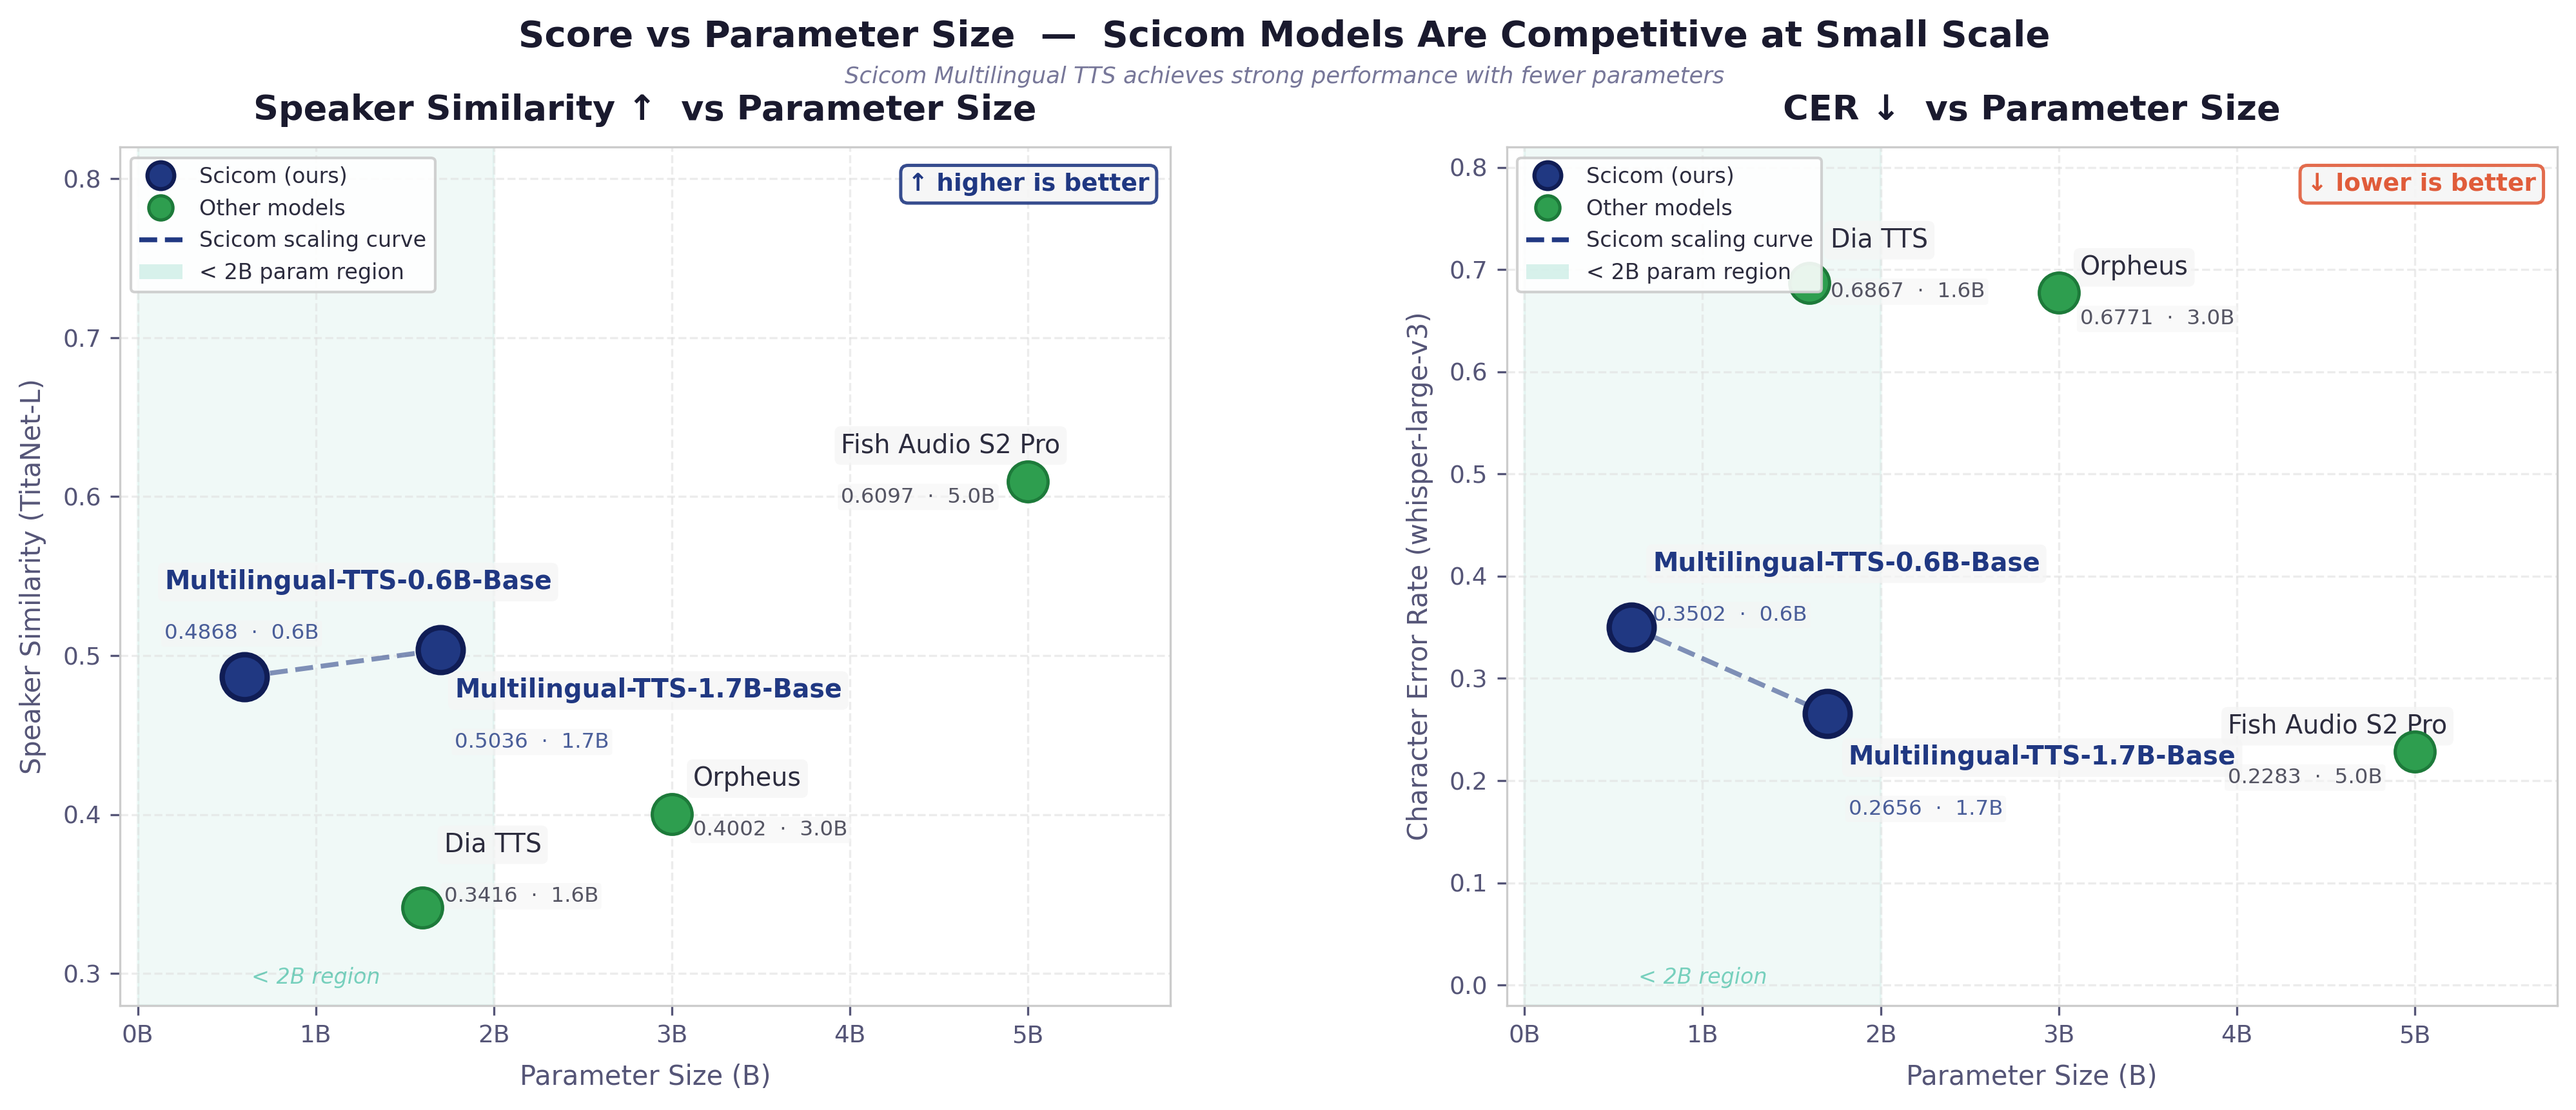
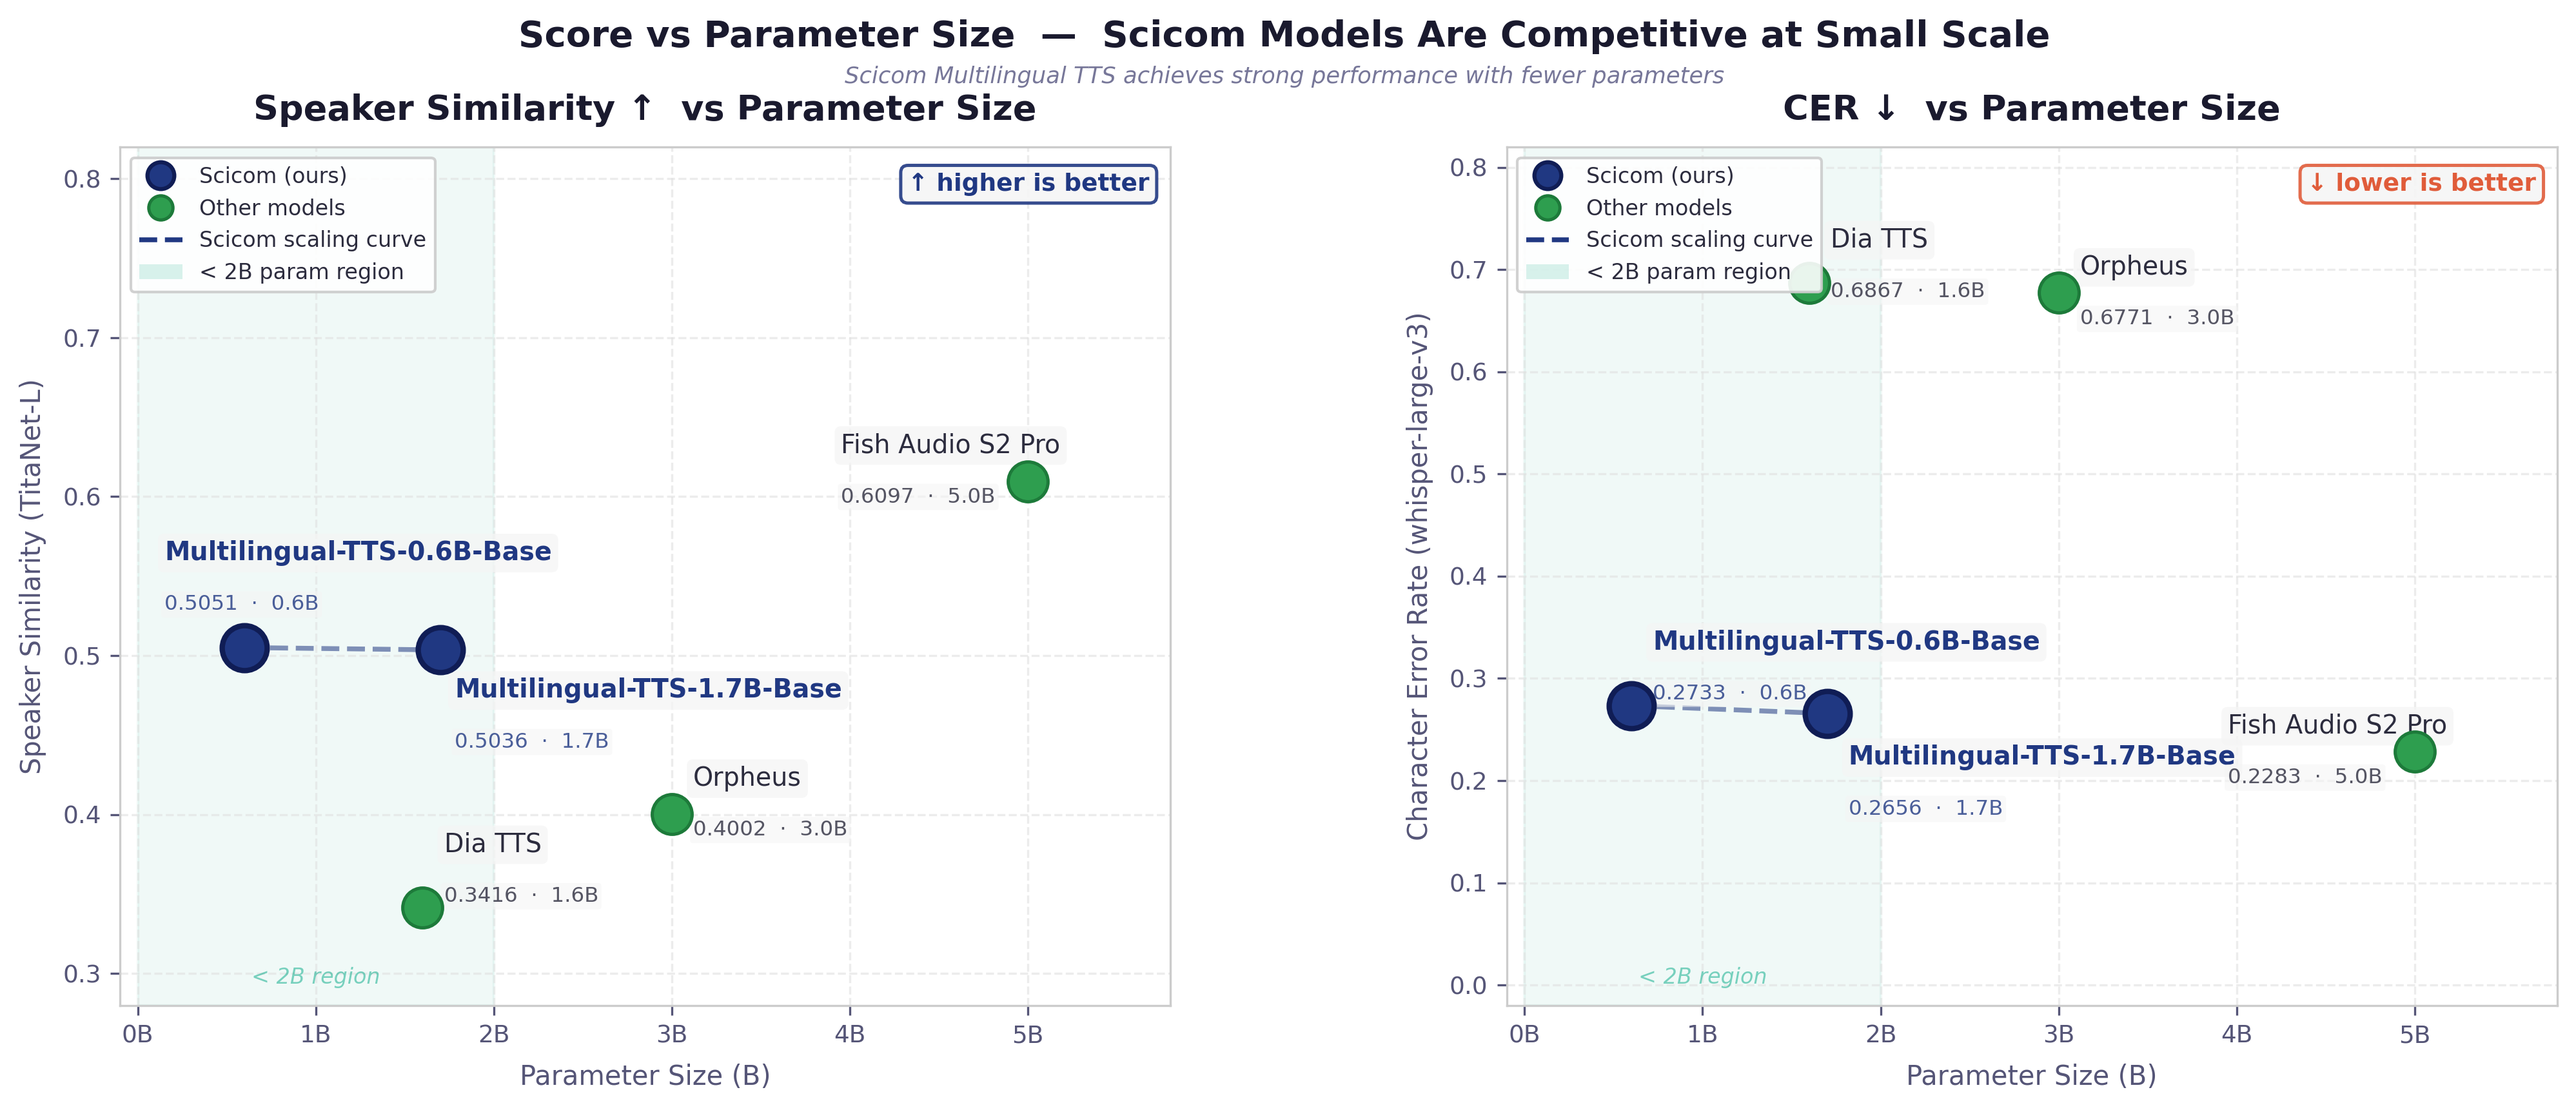
update benchmarks

Changed region(s): [[0.6208, 0.4925, 0.807, 0.6771], [0.0621, 0.4925, 0.2173, 0.6463]]

diff --git a/vc-evaluation/plot_results.py b/vc-evaluation/plot_results.py
@@ -72,23 +72,23 @@ SIM_DATA = [
     },
     # ── Multilingual-TTS-0.6B-Base ────────────────────────────────────────────────
     {
-        'af':0.5121,'am':0.5132,'ar':0.4300,'as':0.5331,'az':0.5316,
-        'ba':0.4551,'be':0.5979,'bg':0.6095,'bn':0.5832,'br':0.3314,
-        'ca':0.5070,'cs':0.4890,'cy':0.4149,'da':0.4135,'de':0.5412,
-        'el':0.4422,'en':0.5087,'es':0.5552,'et':0.5698,'eu':0.5635,
-        'fa':0.4468,'fi':0.4590,'fr':0.5369,'gl':0.5093,'ha':0.4805,
-        'he':0.4929,'hi':0.4921,'ht':0.3976,'hu':0.5103,'hy-AM':0.5831,
-        'id':0.4808,'is':0.5248,'it':0.5697,'ja':0.4444,'ka':0.5860,
-        'kk':0.4935,'ko':0.5508,'lo':0.4723,'lt':0.5480,'lv':0.4431,
-        'mk':0.5880,'ml':0.4207,'mn':0.5209,'mr':0.5802,'mt':0.4761,
-        'ne-NP':0.4764,'nl':0.5041,'nn-NO':0.4268,'oc':0.4497,'pa-IN':0.5042,
-        'pl':0.4855,'ps':0.4846,'pt':0.4039,'ro':0.5348,'ru':0.5169,
-        'sd':0.4272,'sk':0.4075,'sl':0.4358,'sq':0.4804,'sr':0.3240,
-        'sv-SE':0.3691,'sw':0.5102,'ta':0.5260,'te':0.4663,'tg':0.5160,
-        'th':0.4613,'tk':0.4945,'tr':0.3735,'tt':0.4430,'uk':0.4826,
-        'ur':0.5032,'uz':0.5294,'vi':0.3593,'yi':0.4014,'yo':0.5081,
-        'zh-CN':0.5086,'zh-HK':0.5203,'zh-TW':0.4256,
-        '__avg__': 0.4868,
+        'af':0.5265,'am':0.5520,'ar':0.4446,'as':0.5472,'az':0.5504,
+        'ba':0.4625,'be':0.6071,'bg':0.6121,'bn':0.5861,'br':0.3499,
+        'ca':0.5308,'cs':0.4957,'cy':0.4499,'da':0.4414,'de':0.5406,
+        'el':0.4627,'en':0.5196,'es':0.5808,'et':0.5889,'eu':0.5749,
+        'fa':0.4907,'fi':0.4827,'fr':0.5449,'gl':0.5304,'ha':0.5052,
+        'he':0.5047,'hi':0.5082,'ht':0.4087,'hu':0.5270,'hy-AM':0.5756,
+        'id':0.4898,'is':0.5870,'it':0.5878,'ja':0.4423,'ka':0.5907,
+        'kk':0.5165,'ko':0.5480,'lo':0.6244,'lt':0.5620,'lv':0.4868,
+        'mk':0.5927,'ml':0.4275,'mn':0.5472,'mr':0.5936,'mt':0.4898,
+        'ne-NP':0.4998,'nl':0.5110,'nn-NO':0.4453,'oc':0.4547,'pa-IN':0.5206,
+        'pl':0.4953,'ps':0.5192,'pt':0.4243,'ro':0.5538,'ru':0.5241,
+        'sd':0.4461,'sk':0.4076,'sl':0.4505,'sq':0.5019,'sr':0.3437,
+        'sv-SE':0.3876,'sw':0.5289,'ta':0.5507,'te':0.4688,'tg':0.5292,
+        'th':0.4838,'tk':0.5211,'tr':0.3734,'tt':0.4591,'uk':0.5025,
+        'ur':0.5170,'uz':0.5429,'vi':0.3912,'yi':0.4304,'yo':0.5435,
+        'zh-CN':0.5136,'zh-HK':0.5381,'zh-TW':0.4328,
+        '__avg__': 0.5051,
     },
     # ── Multilingual-TTS-1.7B-Base ────────────────────────────────────────────────
     {
@@ -184,23 +184,23 @@ CER_DATA = [
     },
     # ── Multilingual-TTS-0.6B-Base ────────────────────────────────────────────────
     {
-        'af':0.2587,'am':1.0000,'ar':0.2720,'as':0.9216,'az':0.2665,
-        'ba':0.8456,'be':0.1466,'bg':0.1593,'bn':0.2635,'br':0.5497,
-        'ca':0.1982,'cs':0.2321,'cy':0.5757,'da':0.3154,'de':0.0330,
-        'el':0.2938,'en':0.0657,'es':0.0966,'et':0.2390,'eu':0.1573,
-        'fa':0.3428,'fi':0.2762,'fr':0.0705,'gl':0.1743,'ha':0.3236,
-        'he':0.3846,'hi':0.1595,'ht':0.3943,'hu':0.2915,'hy-AM':0.1321,
-        'id':0.0632,'is':0.4129,'it':0.1390,'ja':0.2748,'ka':0.1377,
-        'kk':0.2805,'ko':0.0816,'lo':0.9996,'lt':0.2221,'lv':0.3340,
-        'mk':0.1070,'ml':0.9664,'mn':0.4968,'mr':0.2113,'mt':0.4565,
-        'ne-NP':0.3428,'nl':0.1234,'nn-NO':0.3561,'oc':0.3979,'pa-IN':0.4125,
-        'pl':0.2804,'ps':0.4784,'pt':0.3042,'ro':0.1627,'ru':0.1057,
-        'sd':0.9646,'sk':0.4384,'sl':0.2490,'sq':0.3076,'sr':0.7663,
-        'sv-SE':0.2865,'sw':0.2568,'ta':0.1771,'te':0.6547,'tg':0.3756,
-        'th':0.3245,'tk':0.6428,'tr':0.2749,'tt':0.4033,'uk':0.1861,
-        'ur':0.1311,'uz':0.3643,'vi':0.4255,'yi':0.5936,'yo':0.5849,
-        'zh-CN':0.2480,'zh-HK':0.5884,'zh-TW':0.4835,
-        '__avg__': 0.3502,
+        'af':0.2058,'am':1.0000,'ar':0.2266,'as':0.9161,'az':0.0595,
+        'ba':0.7713,'be':0.0997,'bg':0.0908,'bn':0.2419,'br':0.4436,
+        'ca':0.1426,'cs':0.1228,'cy':0.3859,'da':0.1976,'de':0.0246,
+        'el':0.1343,'en':0.0485,'es':0.0490,'et':0.1461,'eu':0.1193,
+        'fa':0.1818,'fi':0.1552,'fr':0.0597,'gl':0.1042,'ha':0.2492,
+        'he':0.2609,'hi':0.1005,'ht':0.3315,'hu':0.1194,'hy-AM':0.1011,
+        'id':0.0435,'is':0.2366,'it':0.0639,'ja':0.1897,'ka':0.1142,
+        'kk':0.1426,'ko':0.0642,'lo':0.9987,'lt':0.1375,'lv':0.1855,
+        'mk':0.0754,'ml':0.9637,'mn':0.3753,'mr':0.2001,'mt':0.3182,
+        'ne-NP':0.2615,'nl':0.0487,'nn-NO':0.2486,'oc':0.3637,'pa-IN':0.3667,
+        'pl':0.1171,'ps':0.4147,'pt':0.2088,'ro':0.0721,'ru':0.0576,
+        'sd':0.9488,'sk':0.3459,'sl':0.1965,'sq':0.2083,'sr':0.7241,
+        'sv-SE':0.1681,'sw':0.1886,'ta':0.1527,'te':0.5931,'tg':0.2852,
+        'th':0.1511,'tk':0.5728,'tr':0.1828,'tt':0.3088,'uk':0.1033,
+        'ur':0.0921,'uz':0.2763,'vi':0.2695,'yi':0.5161,'yo':0.5321,
+        'zh-CN':0.2277,'zh-HK':0.5024,'zh-TW':0.4114,
+        '__avg__': 0.2733,
     },
     # ── Multilingual-TTS-1.7B-Base ────────────────────────────────────────────────
     {
@@ -555,7 +555,7 @@ def main():
 
 MODEL_POINTS = [
     dict(label='Dia TTS',                params=1.6,  sim=0.3416, cer=0.6867, scicom=False, langs=76),
-    dict(label='Multilingual-TTS-0.6B-Base', params=0.6,  sim=0.4868, cer=0.3502, scicom=True,  langs=76),
+    dict(label='Multilingual-TTS-0.6B-Base', params=0.6,  sim=0.5051, cer=0.2733, scicom=True,  langs=76),
     dict(label='Multilingual-TTS-1.7B-Base', params=1.7,  sim=0.5036, cer=0.2656, scicom=True,  langs=76),
     dict(label='Orpheus',                params=3.0,  sim=0.4002, cer=0.6771, scicom=False, langs=76),
     dict(label='Fish Audio S2 Pro',            params=5.0,  sim=0.6097, cer=0.2283, scicom=False, langs=76),
